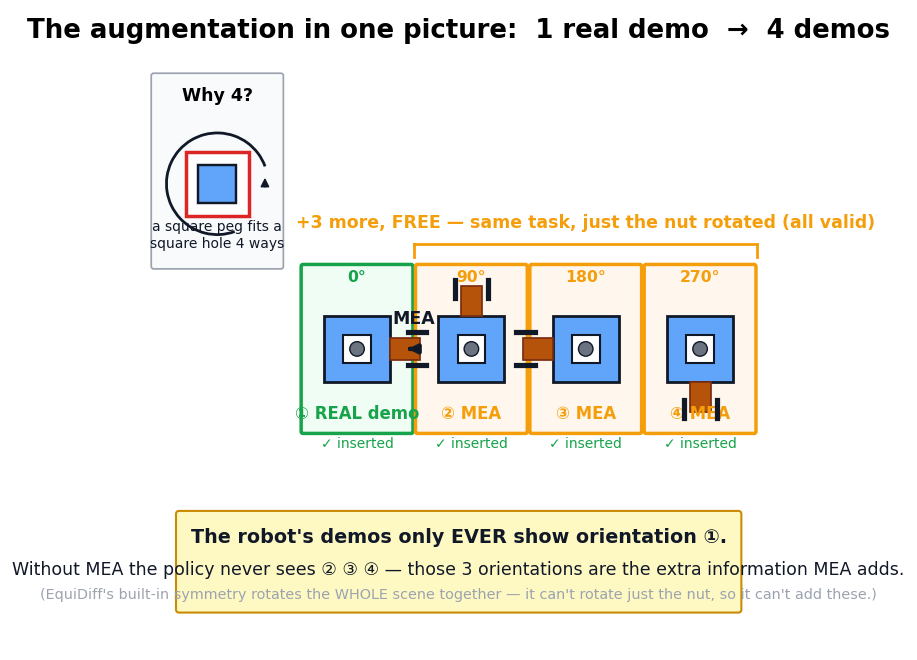
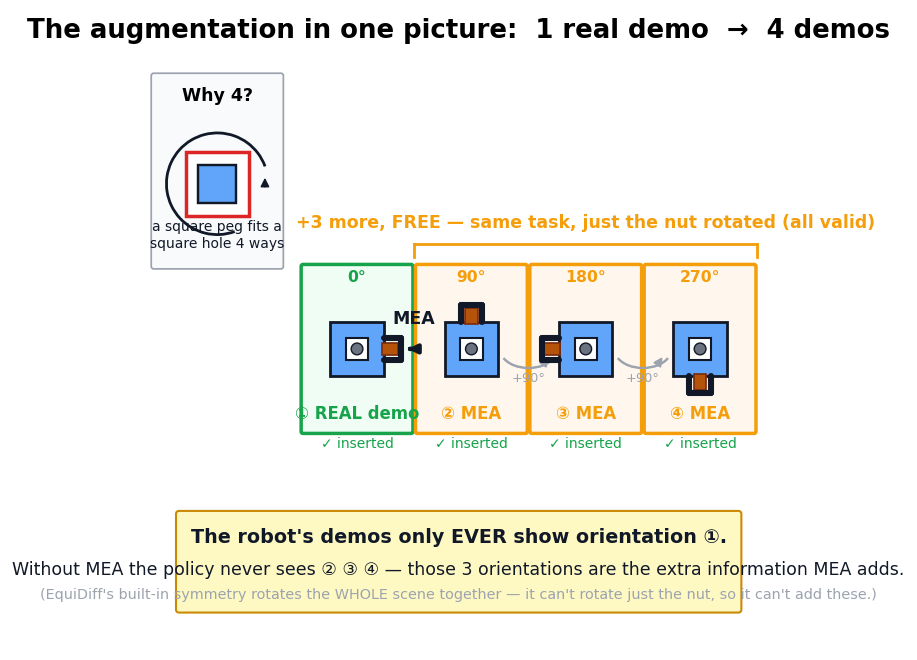
viz: clearer gripper in the plain-language figure (2-finger claw on handle + rotation arrows)
Replaced the floating handle-tip gripper with a compact 2-finger parallel gripper that
straddles the handle, so the whole {nut+gripper} grasp reads as ONE rigid unit rotating
together (0/90/180/270 -> right/up/left/down), and added "+90°" arcs between the MEA nuts
so the movement reads as a rotation, not a teleport.

Claude-Session: https://claude.ai/code/session_01PVfsNR6cUMYMtmjjH8mxZv

Changed region(s): [[0.3359, 0.4242, 0.8244, 0.6364]]

diff --git a/mea_diff/viz_mea_simple.py b/mea_diff/viz_mea_simple.py
@@ -16,29 +16,33 @@ def rot(pts, deg, c):
     return (R @ np.asarray(pts).T).T + np.asarray(c)
 
 
-def nut(ax, cx, cy, yaw, r=5.2, ec=DK, plate=BLUE, inserted=True):
-    """a square nut with a visible handle + gripper, rotated by yaw about (cx,cy)."""
+def _seg(ax, p0, p1, yaw, c, **kw):
+    a, b = rot([p0, p1], yaw, c)
+    ax.plot([a[0], b[0]], [a[1], b[1]], **kw)
+
+
+def nut(ax, cx, cy, yaw, r=4.2, ec=DK, plate=BLUE, inserted=True):
+    """a square nut with a short handle, grasped by a compact 2-finger gripper (fingers
+    straddle the handle) — one rigid unit rotated by yaw about (cx,cy)."""
     c = np.array([cx, cy])
-    # plate
+    # plate + square hole
     ax.add_patch(plt.Polygon(rot([[-r, -r], [r, -r], [r, r], [-r, r]], yaw, c), closed=True,
                              fc=plate, ec=ec, lw=1.6, zorder=2))
-    # square hole
     h = r * 0.42
     ax.add_patch(plt.Polygon(rot([[-h, -h], [h, -h], [h, h], [-h, h]], yaw, c), closed=True,
                              fc="white", ec=ec, lw=1.2, zorder=3))
-    if inserted:                                            # the peg, filling the hole = inserted
+    if inserted:                                            # peg filling the hole = inserted
         ax.add_patch(plt.Circle((cx, cy), r * 0.22, fc="#6b7280", ec=DK, lw=0.8, zorder=4))
-    # handle (sticks out +x in nut frame)
-    hb = r * 0.32
-    ax.add_patch(plt.Polygon(rot([[r, -hb], [r + r * 0.9, -hb], [r + r * 0.9, hb], [r, hb]], yaw, c),
+    # short handle bar sticking out +x in the nut frame
+    hb = r * 0.24; hl0, hl1 = r * 0.95, r + r * 0.55
+    ax.add_patch(plt.Polygon(rot([[hl0, -hb], [hl1, -hb], [hl1, hb], [hl0, hb]], yaw, c),
                              closed=True, fc=BROWN, ec="#7c2d12", lw=1, zorder=3))
-    # gripper clamping the handle tip
-    tip = rot([r + r * 0.9, 0], yaw, c)
-    perp = rot([0, 1], yaw, [0, 0])
+    # compact 2-finger gripper straddling the handle
+    gap = hb + r * 0.16
+    f0, f1 = r * 1.0, hl1 + r * 0.1
     for s in (-1, 1):
-        a = tip + perp * s * r * 0.5 - rot([r * 0.35, 0], yaw, [0, 0])
-        b = tip + perp * s * r * 0.5 + rot([r * 0.2, 0], yaw, [0, 0])
-        ax.plot([a[0], b[0]], [a[1], b[1]], color=DK, lw=3, zorder=5)
+        _seg(ax, [f0, s * gap], [f1, s * gap], yaw, c, color=DK, lw=3.5, zorder=5, solid_capstyle="round")
+    _seg(ax, [f1, -gap], [f1, gap], yaw, c, color=DK, lw=3.5, zorder=5, solid_capstyle="round")
 
 
 fig, ax = plt.subplots(figsize=(15, 6.6))
@@ -66,6 +70,14 @@ for i, (x, yaw) in enumerate(zip(xs, [0, 90, 180, 270])):
     ax.text(x, y + 12.5, f"{yaw}°", fontsize=9, ha="center", color=ec, weight="bold")
     ax.text(x, y - 9, labels[i], fontsize=9.5, ha="center", color=ec, weight="bold")
     ax.text(x, y - 13.5, "✓ inserted", fontsize=8, ha="center", color=GRN)
+
+# "+90°" rotation arrows between the MEA nuts (reads as a rotation, not a teleport)
+for i in [1, 2]:
+    xm = (xs[i] + xs[i + 1]) / 2
+    ax.add_patch(Arc((xm, y + 2), 9, 6, theta1=200, theta2=340, color=GRY, lw=1.4))
+    ax.annotate("", xy=(xm + 3.4, y + 1.2), xytext=(xm + 2.2, y - 0.6),
+                arrowprops=dict(arrowstyle="-|>", color=GRY, lw=1.2))
+    ax.text(xm, y - 3.2, "+90°", fontsize=7.5, ha="center", color=GRY)
 
 # bracket over the 3 MEA ones
 ax.plot([xs[1] - 9, xs[3] + 9], [y + 18.5, y + 18.5], color=ORN, lw=1.6)
